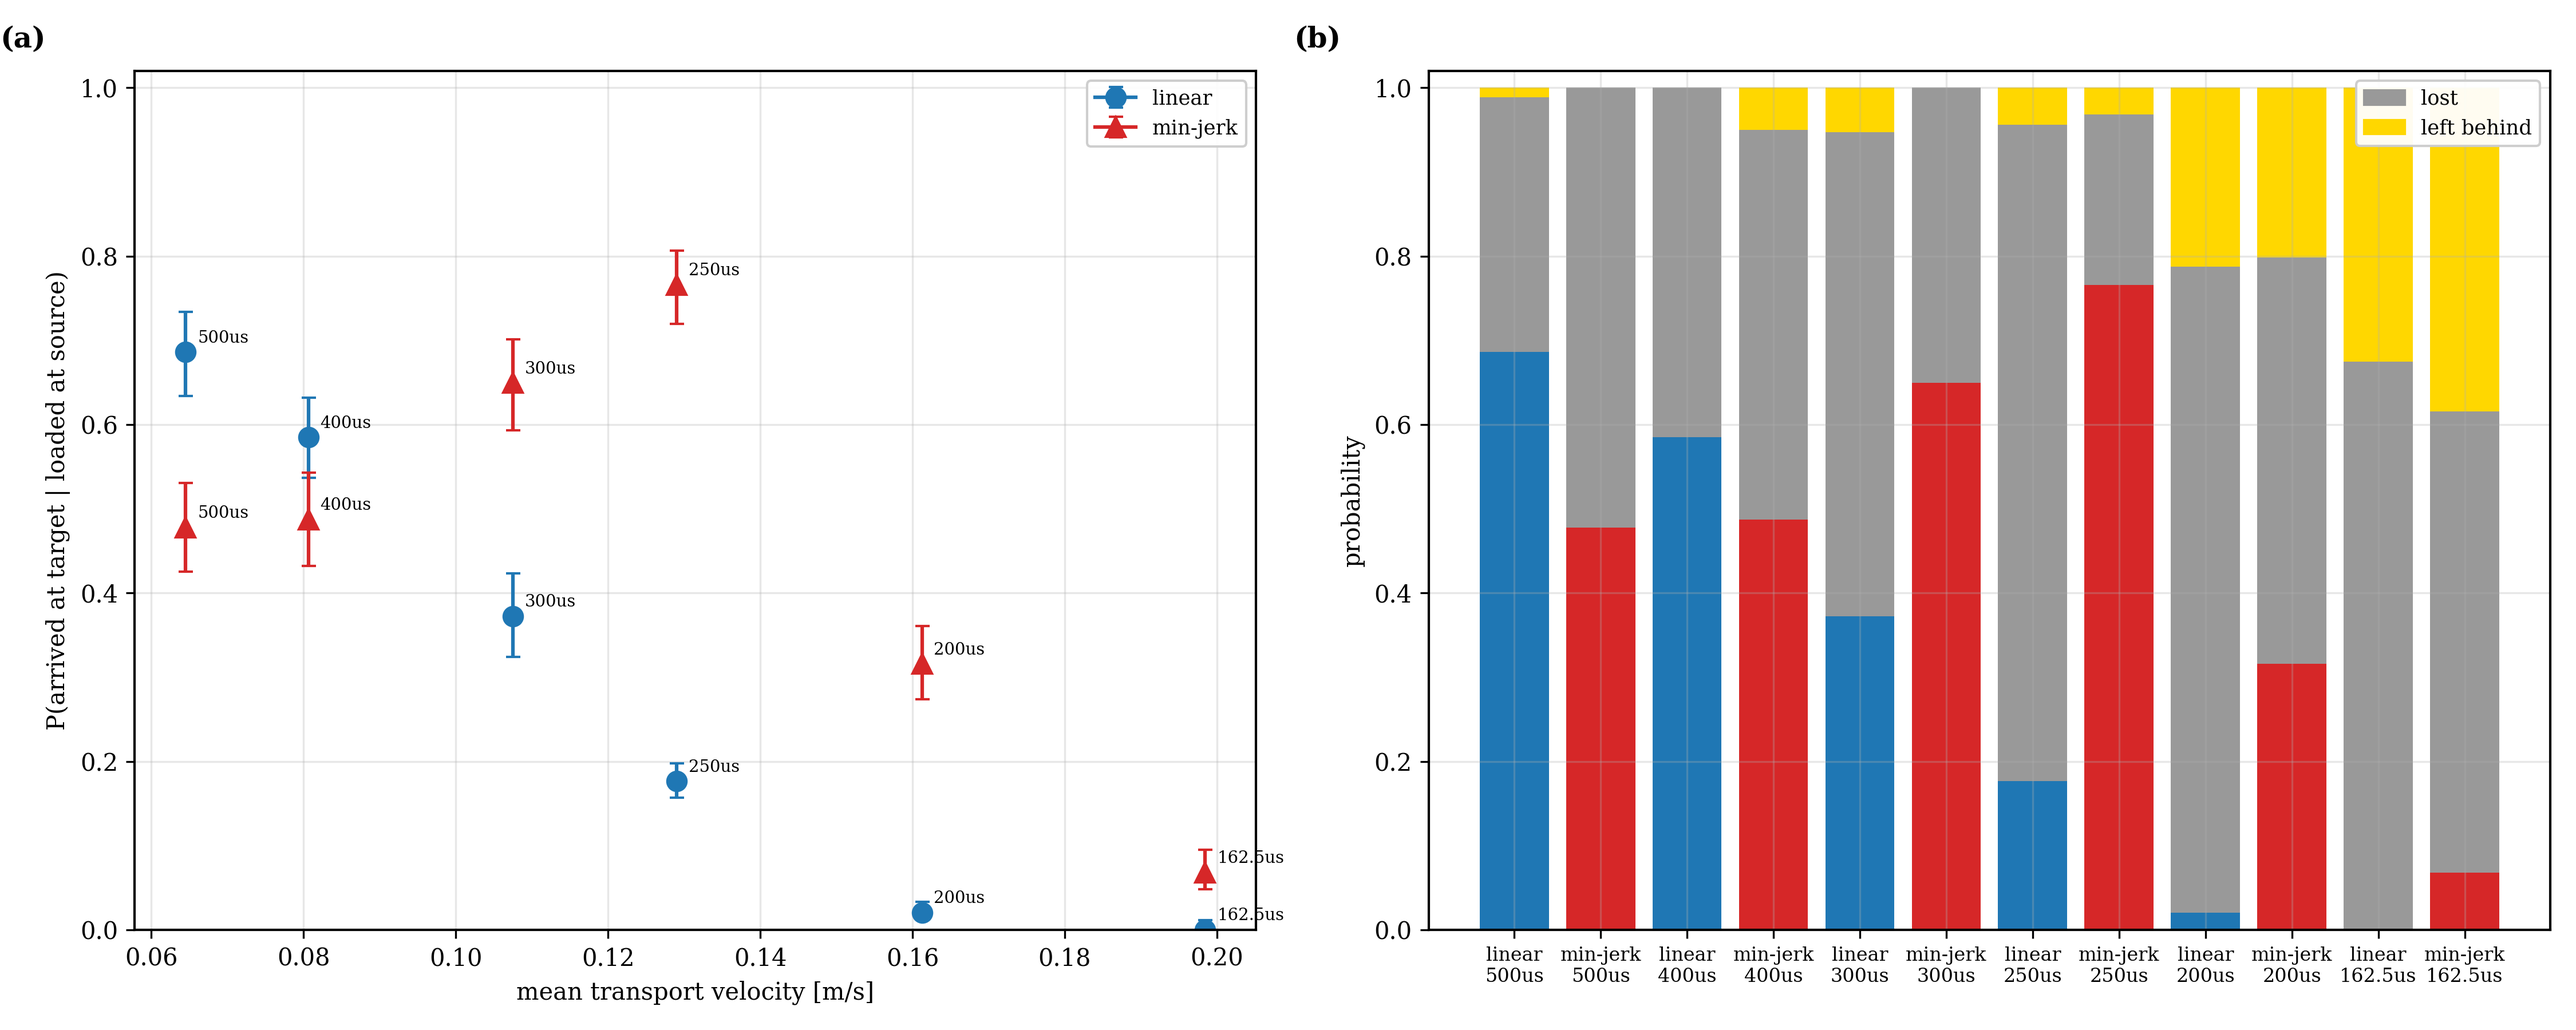
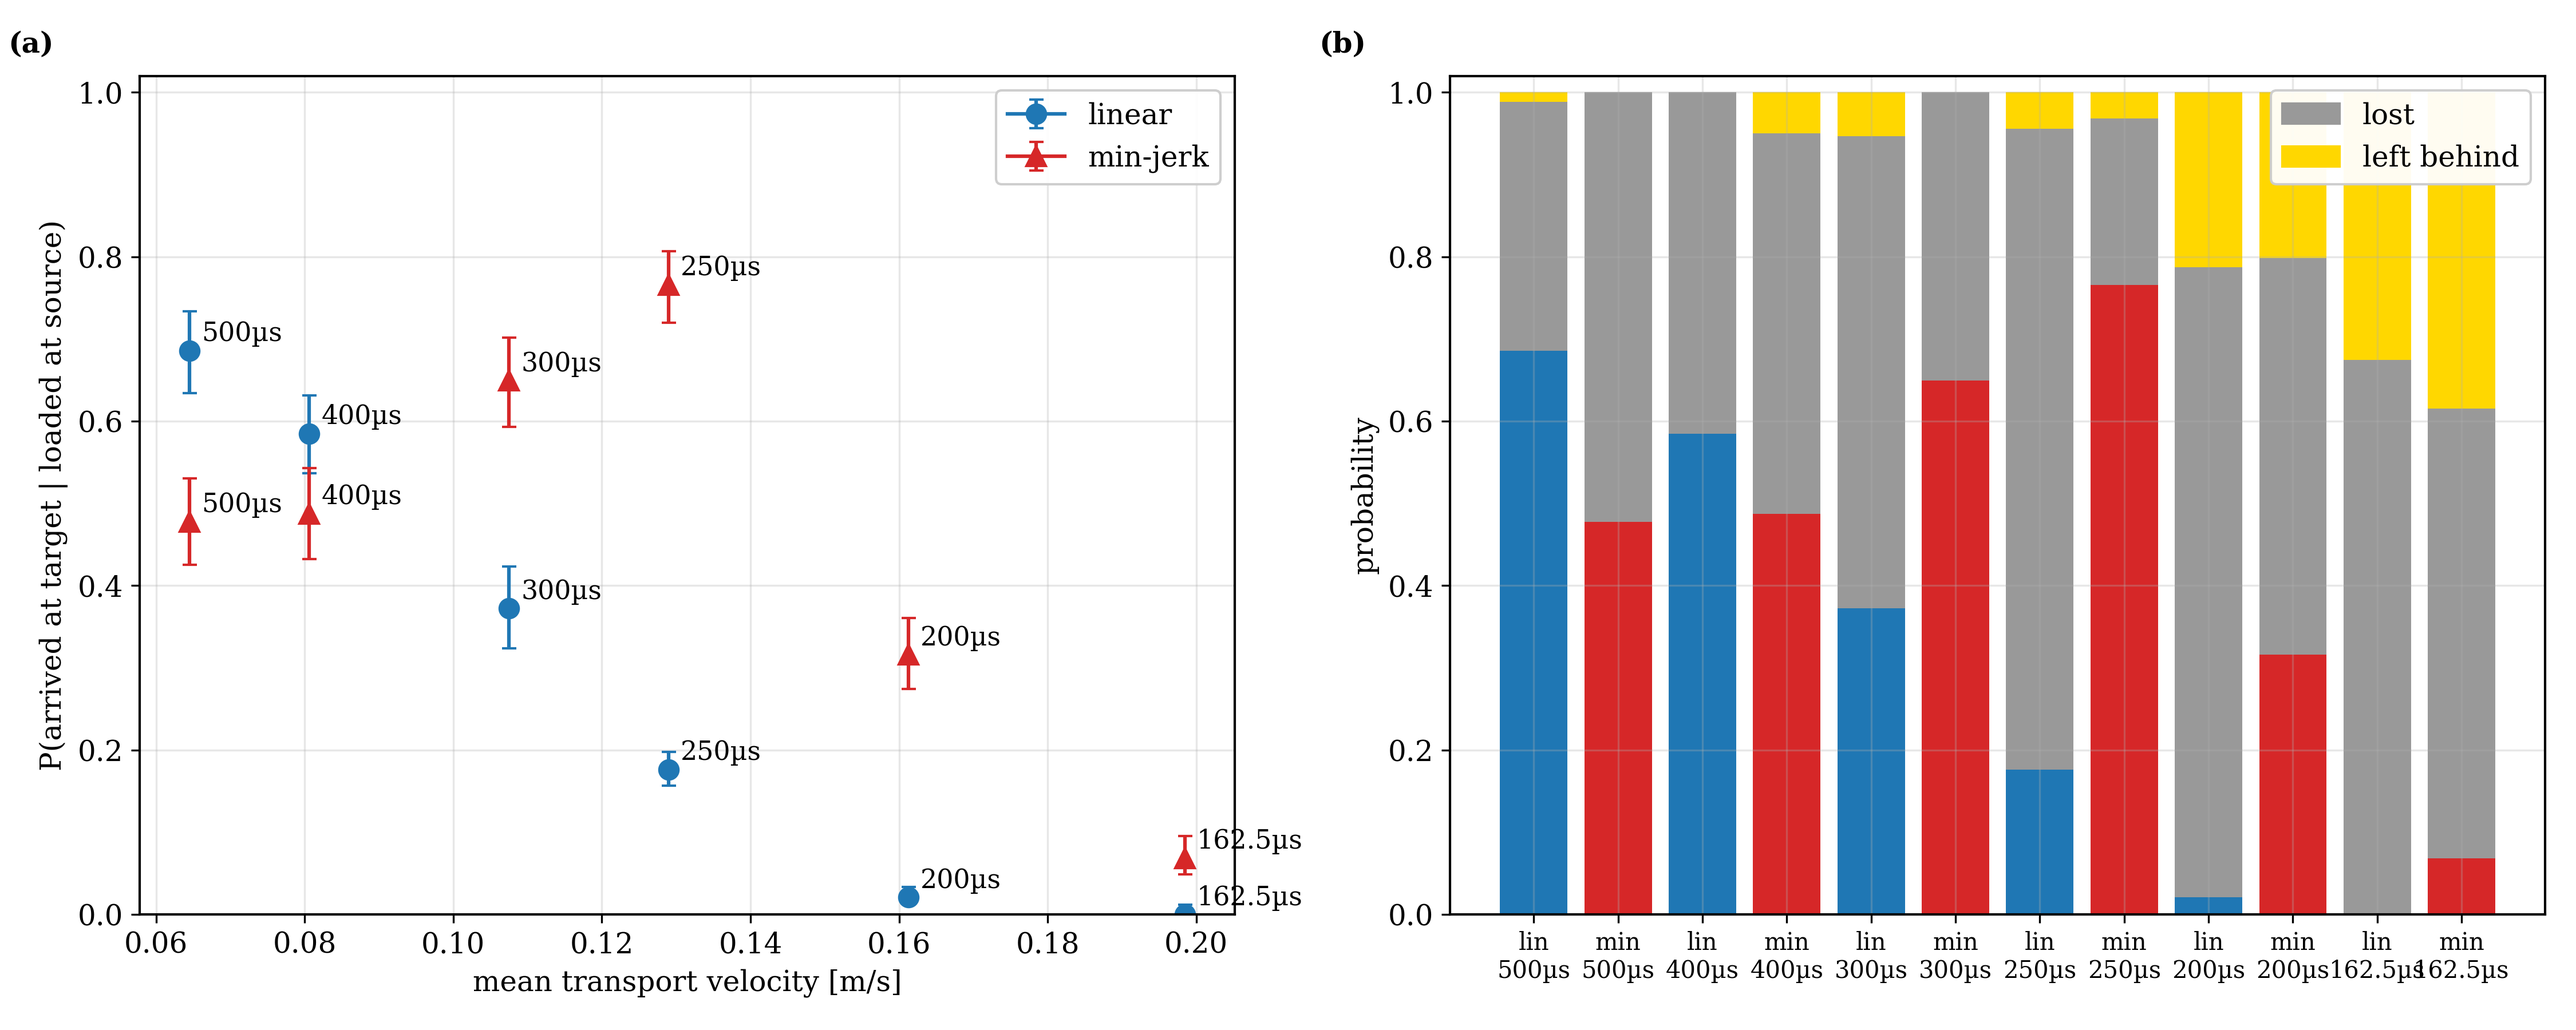
Final push

diff --git a/scripts/DataAnalysis/SpeedOfTrajectories.py b/scripts/DataAnalysis/SpeedOfTrajectories.py
@@ -34,6 +34,7 @@ from matplotlib.patches import Patch
 matplotlib.rcParams["mathtext.fontset"] = "cm"
 matplotlib.rcParams["font.family"] = "serif"
 matplotlib.rcParams["axes.linewidth"] = 1.0
+matplotlib.rcParams["font.size"] = 12
 
 try:  # after importing CommonThings the sorter folder should be accessible
     import sorter as S  # type: ignore
@@ -49,7 +50,9 @@ SPACING_UM_BY_CONFIG = {
     "default": 32.25,
 }  # measured, not derived from pixels
 SHORT_TRANSFER_CONFIG = "46um"  # 4.6um-spacing hops, excluded from the ALL_RUNS plot
-FAULTY_RUNS = {"tweezerLoad1x2-STA200us"}  # bad data taking, excluded from ALL_RUNS plot
+FAULTY_RUNS = {
+    "tweezerLoad1x2-STA200us"
+}  # bad data taking, excluded from ALL_RUNS plot
 
 _DUR_RE = re.compile(r"(\d+(?:_\d+)?)us")
 
@@ -60,6 +63,10 @@ KIND_STYLE = {
     "optimised + amp": ("tab:orange", "D"),
     "opt + amp, half offset": ("tab:purple", "P"),
     "other": ("0.5", "x"),
+}
+KIND_ABBR = {
+    "linear": "lin",
+    "min-jerk": "min",
 }
 
 
@@ -140,17 +147,25 @@ def _figure(rows, ax):
             label=label,
         )
         ax.annotate(
-            f"{r['T']:g}us",
+            f"{r['T']:g}µs",
             (r["v_mean"], p),
             textcoords="offset points",
             xytext=(5, 4),
-            fontsize=7,
+            fontsize=11,
         )
     ax.set_xlabel("mean transport velocity [m/s]")
     ax.set_ylabel("P(arrived at target | loaded at source)")
     ax.set_ylim(0, 1.02)
-    ax.text(-0.12, 1.02, "(a)", transform=ax.transAxes, fontsize=12, fontweight="bold", va="bottom")
-    ax.legend(fontsize=8.5, framealpha=0.95)
+    ax.text(
+        -0.12,
+        1.02,
+        "(a)",
+        transform=ax.transAxes,
+        fontsize=12,
+        fontweight="bold",
+        va="bottom",
+    )
+    ax.legend(fontsize=12, framealpha=0.95)
     ax.grid(alpha=0.3)
 
 
@@ -167,16 +182,30 @@ def _stacked_figure(rows, ax):
     ax.bar(x, lost, bottom=arrived, color="0.6")
     ax.bar(x, left_behind, bottom=arrived + lost, color="gold")
     ax.set_xticks(x)
-    ax.set_xticklabels([f"{r['kind']}\n{r['T']:g}us" for r in order], fontsize=8)
+    ax.set_xticklabels(
+        [
+            f"{KIND_ABBR.get(r['kind'], r['kind'])}\n{r['T']:g}µs"
+            for r in order
+        ],
+        fontsize=10,
+    )
     ax.set_ylabel("probability")
     ax.set_ylim(0, 1.02)
-    ax.text(-0.12, 1.02, "(b)", transform=ax.transAxes, fontsize=12, fontweight="bold", va="bottom")
+    ax.text(
+        -0.12,
+        1.02,
+        "(b)",
+        transform=ax.transAxes,
+        fontsize=12,
+        fontweight="bold",
+        va="bottom",
+    )
     ax.legend(
         handles=[
             Patch(color="0.6", label="lost"),
             Patch(color="gold", label="left behind"),
         ],
-        fontsize=8.5,
+        fontsize=12,
         framealpha=0.95,
     )
     ax.grid(alpha=0.3)
